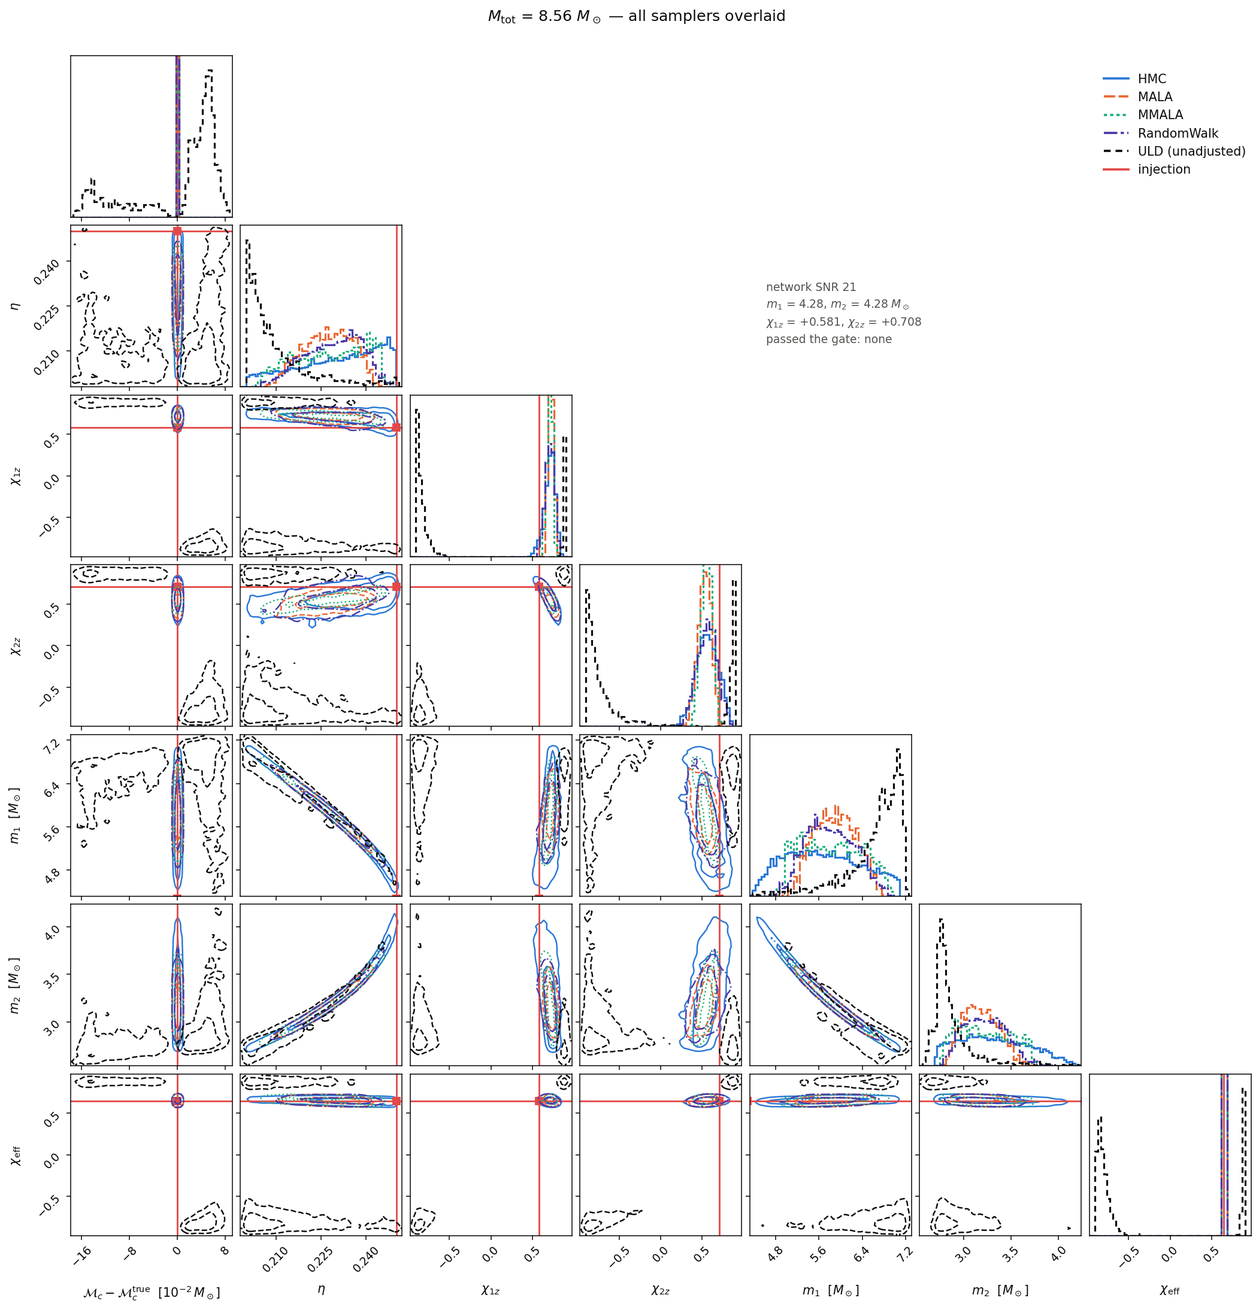
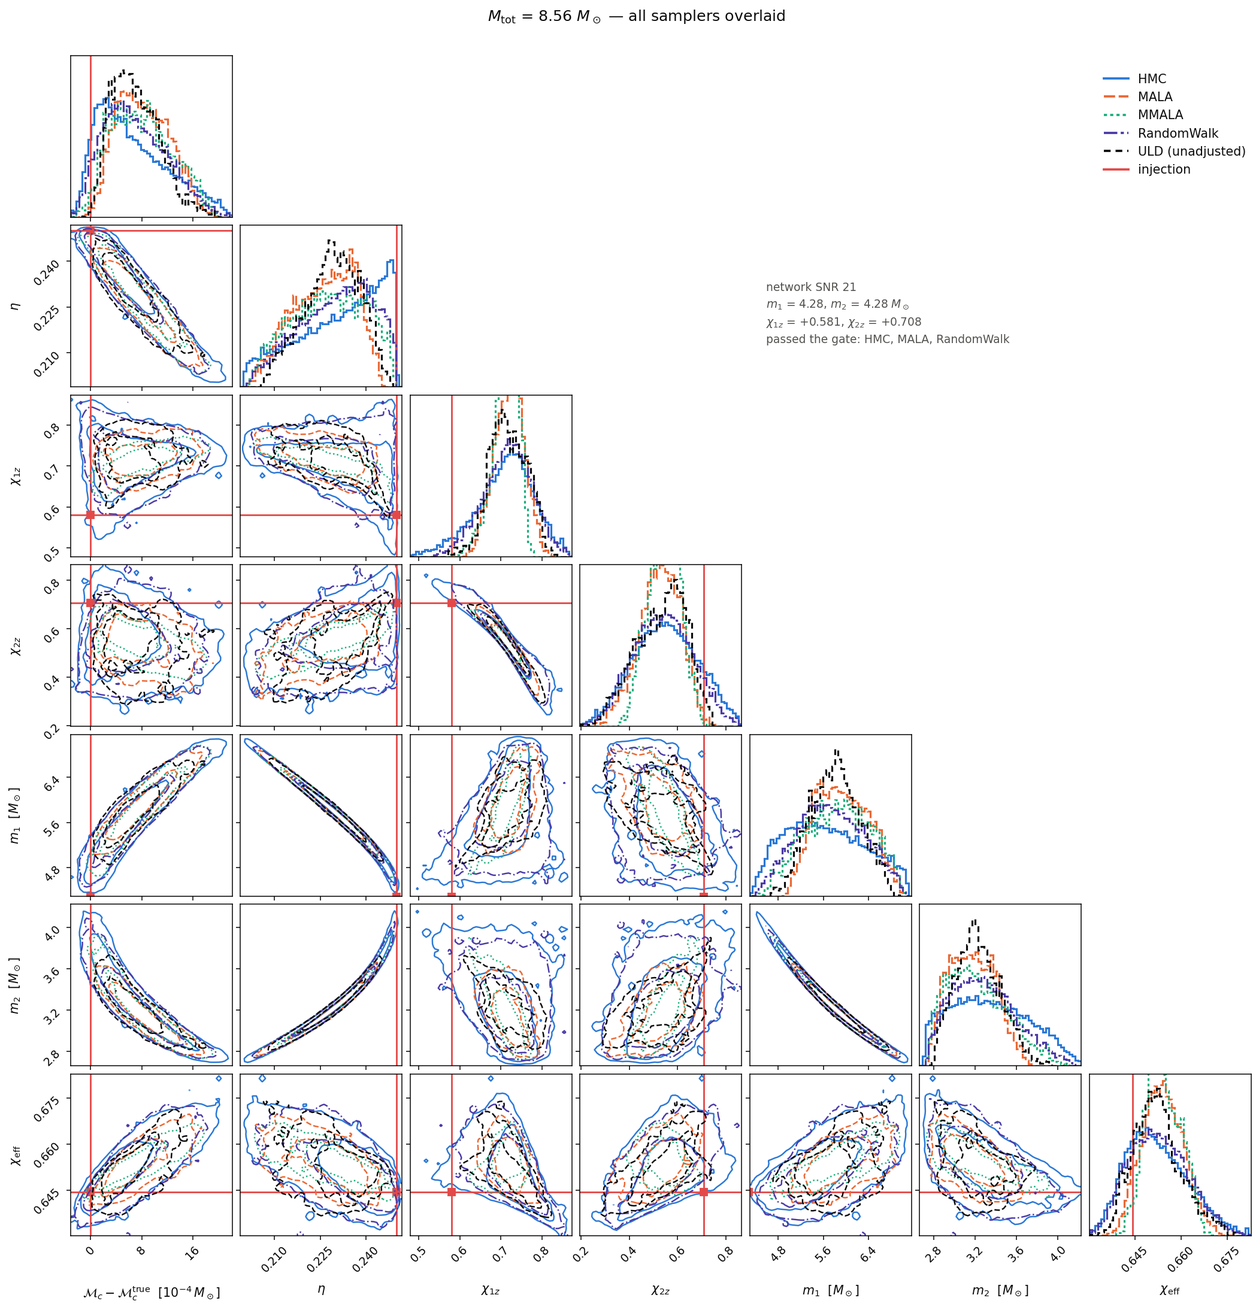
docs: re-run the five-kernel suite properly; two prior conclusions retracted
The spinning-binary comparison is re-run end to end against the corrected setup
cache, with a 90-minute budget instead of 12, and with uld taking mala's adapted
step size per injection instead of a default nothing had chosen. 30 of 35 runs
now pass the gate, against 15 before. Both of the section's headline claims
were wrong, in opposite directions.

"Bin count, not kernel, decides convergence" was a budget artefact. Thirteen of
the 35 runs had ended on 'production wall-clock budget exhausted' with R-hat
still falling monotonically and no stuck chains -- unfinished, not failed. With
90 minutes the 490+ bin injections converge for almost everything; hmc and
random-walk go 7/7. The two surviving mmala failures are the longest runs in the
suite rather than the most expensive posteriors.

"ULD is catastrophically broken" was measuring a step size of 0.5 that nothing
had selected, 15-80x what the MH kernels adapt to on the same posteriors. Every
number the page cited for it is retracted: up to 27% non-finite draws is now
exactly 0%, a 218-sigma median shift is 0.50 sigma, never passing the gate at
any mass is 5 of 7. It is an ordinary member of the comparison.

The real cost of dropping the accept/reject step is narrower and better
localised, and 55.1 Msun is the case that shows it: uld CONVERGED there (R-hat
1.0095, ESS 7531) and sits 51x the Monte-Carlo floor from hmc on eta, with 0.01%
of its posterior against the eta=0.25 edge where hmc puts 13.9%. Its chains
[…]

Changed region(s): [[0.0309, 0.0622, 0.9895, 0.9634], [0.2474, 0.7148, 0.3092, 0.777]]

diff --git a/docs/bns_ce_pe_benchmark.md b/docs/bns_ce_pe_benchmark.md
@@ -384,7 +384,9 @@ classified NS below 3 M☉ and BH at or above, aligned-spin truth drawn per comp
 ±0.05 (NS) or ±0.9 (BH), recovery prior widened to the symmetric range of the wider
 component, distance solved per injection to a comparable-but-not-identical network SNR
 (~18–23). Each is then sampled by **all five `jaxpe.kernels` transition kernels** on the
-same 12-minute budget and the same R̂ < 1.01 / ESS ≥ 2000 gate used everywhere else here.
+same 90-minute budget and the same R̂ < 1.01 / ESS ≥ 2000 gate used everywhere else here.
+Seven of the ten are reported: the other three refine to 6 375–7 900 relative-binning bins
+and are measured below as infeasible on this hardware.
 
 ### Two defects a ±0.9 spin prior exposed
 
@@ -423,9 +425,14 @@ injected 1.21877.
 > (1.77× wider in its tightest direction under the corrected criterion) and 38.0 M☉ (57×,
 > one of the three that never produced a result). So the caveat is narrow but not empty,
 > and it is *not* neutral for the cross-kernel comparison: a metric that is too tight
-> penalises single-step kernels far more than HMC, which is quantified at the end of this
-> section. Re-running the suite against the corrected cache remains the obvious follow-up
-> and has not been done.
+> penalises single-step kernels far more than HMC.
+>
+> **The suite below has since been re-run in full against the corrected cache**, so the
+> results reported here are no longer subject to this caveat. It is kept because the
+> difference mattered: measured against the corrected metric, the cross-kernel divergences
+> that the first pass reported (12–32× the Monte-Carlo floor) fall to 3.6–5.1×. A metric
+> defect that agrees to 3 % on eight of ten injections still moved the headline conclusion
+> of a kernel comparison by roughly a factor of four.
 
 **2. Relative-binning resolution is set by the prior volume, not the source.** The
 heterodyne's linear-in-f ratio model must hold across the parameters actually *proposed*,
@@ -449,6 +456,20 @@ kernels alone. Two further corrections were needed before the comparison meant a
   default of 80, MALA hit the cap on 6 of 10 injections having spent only 6.4 of its 12
   allowed minutes. A fixed block cap penalises exactly the kernels that take smaller steps
   per block, so the comparison would have measured the cap. Default raised to 400.
+- **The 12-minute budget itself was binding**, and it was the single largest source of
+  "did not converge" in the first pass of this suite: 13 of 35 runs ended on
+  `production wall-clock budget exhausted` with R̂ still falling monotonically block over
+  block and no stuck chains. Those were unfinished runs, not failures. Raised to
+  **90 minutes**, which converts every one of them except MMALA's two. A budget-limited
+  run is reported as not converged either way — the point is that reading it as a
+  statement about the *kernel* was wrong.
+- **ULD's step size was never a measured choice.** It has no acceptance signal to adapt
+  on, so `--step-size` is held fixed for the whole run, and the first pass left it at the
+  default of 0.5 while the MH kernels' own adaptation selected **0.006–0.033** on these
+  same posteriors. Running an unadjusted integrator at 15–80× the step the geometry
+  supports does not measure the cost of dropping the accept/reject step; it measures a
+  broken step size. It now takes MALA's adapted value per injection via
+  `--step-size-from`, and the difference is not subtle — see the ULD discussion below.
 - **Everything runs on CPU, not the GPU** — because mid-suite the CUDA driver wedged
   (`cuInit` → `CUDA_ERROR_UNKNOWN`, while `nvidia-smi` continued to report a perfectly
   healthy card). This is a fallback, not a preference: measured per production block, the
@@ -467,23 +488,32 @@ kernels alone. Two further corrections were needed before the comparison meant a
 
 ### Results
 
-Whether a run passes the gate at all is governed by the relative-binning cost, **not by
-the kernel** (what the resulting posteriors look like is a separate question, and the
-next subsection shows they differ):
+**30 of 35 runs pass the gate.** End-to-end minutes on identical CPU hardware, against
+the corrected setup cache and the 90-minute budget:
 
 | M_tot (M☉) | bins | HMC | MALA | MMALA | RandomWalk | ULD |
 |---:|---:|:--|:--|:--|:--|:--|
-| 2.8 | 125 | ✅ 14.1 | ✅ 8.8 | ✅ 10.5 | ✅ 8.5 | ✗ R̂ 1.843 |
-| 4.1 | 499 | ✗ R̂ 1.023 | ✗ R̂ 1.030 | ✗ R̂ 1.033 | ✗ R̂ 1.019 | ✗ R̂ 2.257 |
-| 5.9 | 125 | ✅ 8.8 | ✅ 9.8 | ✅ 8.7 | ✅ 8.1 | ✗ R̂ 1.352 |
-| 8.6 | 499 | ✗ R̂ 1.037 | ✗ R̂ 1.019 | ✗ R̂ 1.195 | ✗ R̂ 1.019 | ✗ R̂ 3.116 |
-| 26.2 | 125 | ✅ 12.2 | ✅ 10.6 | ✅ 7.4 | ✅ 9.5 | ✗ R̂ 2.175 |
-| 55.1 | 490 | ✗ R̂ 1.031 | ✗ R̂ 1.038 | ✗ R̂ 1.019 | ✗ R̂ 1.033 | ✗ R̂ 2.383 |
-| 80.0 | 124 | ✅ 6.6 | ✗ R̂ 1.026 | ✅ 9.1 | ✅ 12.2 | ✗ R̂ 2.857 |
+| 2.8 | 125 | ✅ 21.8 | ✅ 19.1 | ✅ 19.7 | ✅ 12.5 | ✅ 20.9 |
+| 4.1 | 499 | ✅ 69.0 | ✅ 69.0 | ✗ R̂ 1.0136 | ✅ 42.8 | ✅ 50.1 |
+| 5.9 | 125 | ✅ 11.4 | ✅ 17.1 | ✅ 17.8 | ✅ 10.1 | ✅ 10.7 |
+| 8.6 | 499 | ✅ 64.8 | ✅ 46.8 | ✗ R̂ 1.0320 | ✅ 60.7 | ✗ R̂ 1.0355 |
+| 26.2 | 125 | ✅ 26.1 | ✗ R̂ 1.0129 | ✅ 35.4 | ✅ 48.6 | ✅ 61.9 |
+| 55.1 | 490 | ✅ 46.5 | ✅ 62.4 | ✅ 35.5 | ✅ 35.7 | ✅ 35.6 |
+| 80.0 | 124 | ✅ 13.1 | ✅ 31.0 | ✅ 42.1 | ✅ 31.4 | ✗ R̂ 1.0114 |
 
 ✅ = passed the gate, with end-to-end minutes; ✗ = budget exhausted, with the R̂ reached.
-Every 125-bin injection converges for all four MH-corrected kernels; no 490+ bin injection
-converges for any of them.
+HMC and RandomWalk are 7/7, MALA 6/7, MMALA and ULD 5/7. The earlier reading of this
+table — that bin count, not kernel, decides whether a run converges — **was an artefact
+of too small a budget**: with 90 minutes the 490+ bin injections converge for almost
+everything, and the two remaining MMALA failures are the longest runs in the suite
+(96 and 95 minutes) rather than the most expensive posteriors.
+
+**Passing the gate and getting the right answer are not the same thing, and this suite
+separates them in both directions.** ULD at 55.1 M☉ *converged* — R̂ 1.0095, ESS 7531 —
+and is 51× the Monte-Carlo floor away from HMC on η. MALA at 26.2 M☉ and ULD at 80.0 M☉
+*failed* the gate and are statistically indistinguishable from HMC (0.9–2.6× and
+0.5–2.0× the floor). R̂ measures whether chains agree with each other, which is not the
+same as agreeing with the target; the next subsection measures the second thing.
 
 **Three injections are absent from this table entirely** (12.4, 18.0 and 38.0 M☉, the
 ones the parity guard pushed to 6 375–7 888 bins), and they are the clearest statement of
@@ -499,107 +529,94 @@ sampler was given an advantage, because none of them got a result.
 The figure is grouped by binary rather than plotted against mass on purpose: cost here
 tracks bin count, and a line against a mass axis would draw a trend that does not exist.
 
-### Medians agree; the distributions do not
+### Medians agree; the distributions differ at the boundary
 
-Comparing posterior *medians* against HMC's, in units of HMC's own posterior σ, over the
-four binaries where HMC passed the gate (2.8, 5.9, 26.2, 80.0 M☉):
+Posterior *medians* against HMC's, in units of HMC's own posterior σ, worst over all four
+sampled parameters and all seven binaries:
 
 | kernel | worst median shift vs HMC |
 |---|---:|
-| MALA | 0.32 σ |
-| MMALA | 0.23 σ |
-| RandomWalk | 0.15 σ |
-| **ULD** | **218 σ** |
+| MALA | 0.48 σ (η, 8.6 M☉) |
+| MMALA | 0.40 σ (η, 8.6 M☉) |
+| RandomWalk | 0.17 σ (η, 8.6 M☉) |
+| ULD | 0.50 σ (η, 55.1 M☉) |
 
-Read alone, that table says the three MH-corrected alternatives are interchangeable with
-HMC. **It is misleading, and the rest of this section is why.** A median is one number
-from a four-dimensional distribution, and it is the number these kernels get right.
+All four land in the right place to within half a σ. A median is one number from a
+four-dimensional distribution, and it is the number every kernel here gets right.
 
 Jensen–Shannon divergence against HMC (same estimator as
-[`compare_bns_posteriors.py`](../bin/compare_bns_posteriors.py)) tells a different story.
-Against a null built by splitting HMC's *own* chains in half at the same ESS — the honest
-Monte-Carlo floor for each run — the MH-corrected kernels sit at:
+[`compare_bns_posteriors.py`](../bin/compare_bns_posteriors.py)) is more discriminating.
+Referred to a null built by splitting HMC's *own* chains in half — the honest Monte-Carlo
+floor, since any two finite samples of the same distribution have JS > 0 — the median
+over all 28 (binary, parameter) pairs is:
 
-| binary | MALA | MMALA | RandomWalk |
-|---|---:|---:|---:|
-| 2.8 M☉ | 19–32× floor | 13–24× | 1.6–7.7× |
-| 5.9 M☉ | 1.2–3.5× | 3.0–13× | 0.3–0.6× |
-| 26.2 M☉ | 8.2–15× | 3.5–15× | 1.5–4.7× |
-| 80.0 M☉ | 0.5–5.8× | 0.8–8.1× | 0.4–2.6× |
+| kernel | median | worst |
+|---|---:|---:|
+| RandomWalk | 1.7× floor | 6.7× (η, 55.1 M☉) |
+| ULD | 3.5× | 51× (η, 55.1 M☉) |
+| MALA | 3.6× | 26× (η, 8.6 M☉) |
+| MMALA | 5.1× | 37× (η, 55.1 M☉) |
 
-Twelve to thirty-two times the noise floor is not sampling scatter. These are genuinely
-different distributions.
+**This is the number that most changed when the suite was re-run properly.** The first
+pass of this comparison put MALA and MMALA at 12–32× the floor and concluded the
+MH-corrected kernels were substantially under-dispersed relative to HMC. Against the
+corrected mass matrix and an adequate budget the medians are 3.6× and 5.1×. Most of that
+gap was **a suboptimal shared metric being amplified by single-step kernels, not a
+property of the kernels** — which the earlier text could only spot-check on one binary
+and now holds across all seven.
 
-**The difference is under-dispersion, and it is one-sided.** Every non-HMC kernel returns
-a *narrower* posterior than HMC, on every parameter of every binary — never wider. The
-90 % credible widths run from 0.44× to 1.01× HMC's, and the M_c–η correlation is
-systematically weaker too (−0.95 → −0.90/−0.91/−0.93 at 2.8 M☉).
+**What survives is narrower, one-sided, and concentrated at the prior boundary.** Every
+non-HMC kernel returns a *narrower* 90 % credible interval than HMC on almost every
+parameter of every binary: median width ratios 0.80 (MALA), 0.84 (MMALA and ULD), 0.92
+(RandomWalk), and only 0–11 % of the 28 comparisons come out wider at all.
 
-Two measurements locate it. First, the deficit *shrinks* with credible level (η at
-26.2 M☉: 0.53× at 50 %, 0.83× at 99 % for MALA), so it is not tail truncation. Second,
-the prior-boundary accumulation is missing: HMC places 11.8 % of its 26.2 M☉ posterior
-within 10⁻³ of the η = 0.25 edge, MALA 0.35 % — **34× less**. That accumulation is the
-feature this page's sampler was built around ("the η → 1/4 and spin → 0 pileups that no
-fixed mass matrix equilibrates"), and it is precisely what the single-step kernels miss.
+The sharpest discriminator is the η = 0.25 pileup — the feature this page's sampler was
+built around ("the η → 1/4 and spin → 0 pileups that no fixed mass matrix equilibrates").
+Fraction of the posterior within 10⁻³ of that edge:
 
-Because η_true = 0.25 sits *on* that boundary for equal-mass injections, "reaches the
-pileup" and "recovers the truth" are the same statement there — so the aligned spins,
-whose truths are interior, are the control. They show the same deficit: at 26.2 M☉ the
-spin marginals are 0.44–0.67× HMC's width with the truth nowhere near an edge. The
-under-dispersion is a general exploration failure, not an artefact of where η's truth sits.
+| M_tot (M☉) | HMC | MALA | MMALA | RandomWalk | ULD |
+|---:|---:|---:|---:|---:|---:|
+| 2.8 | 15.9 % | 0.11 % | 5.3 % | 9.6 % | 1.5 % |
+| 8.6 | 3.4 % | 0.00 % | 0.22 % | 1.2 % | 0.00 % |
+| 26.2 | 9.0 % | 3.1 % | 3.7 % | 6.5 % | 5.9 % |
+| 55.1 | 13.9 % | 1.8 % | 0.37 % | 5.5 % | **0.01 %** |
+| 80.0 | 14.4 % | 7.6 % | 10.5 % | 10.6 % | 8.8 % |
 
-It has a consequence for accuracy. HMC's η median is closer to the truth than every other
-kernel's, on every binary — 1.12 σ vs 1.36–1.87 σ at 2.8 M☉, 0.82 σ vs 1.09–1.42 σ at
-26.2 M☉ — and the ordering (HMC, then RandomWalk, then MMALA/MALA) tracks the boundary
-occupancy exactly.
+HMC reaches the boundary more than every other kernel on every binary, and the ordering
+(HMC, then RandomWalk, then MMALA/MALA/ULD) is the same ordering as the JS table. The
+55.1 M☉ row is the extreme case and is visible directly in that binary's corner figure:
+because η = 0.25 means m₁ = m₂, a kernel that misses the pileup pushes the derived m₁
+marginal to higher masses, and ULD's modal m₁ sits at 35.0 M☉ against HMC's 29.2 (the
+injected value being 27.6).
 
-**Mechanism, and how much of it is the kernel.** It is the local move length, not the
-Metropolis correction. HMC integrates for T = ε × n_leapfrog ≈ 1.0–3.7 per trajectory;
-the single-step kernels displace ~ε per step, measured at 0.006–0.08, with production
-acceptance drifting well off target (MMALA 0.53 → 0.16, RandomWalk 0.15 → 0.06). Their
-local kernel therefore contributes almost no displacement, and reaching the boundary
-falls to the flow's global proposals — which are fitted to those same chains' spread.
-Narrow chains train a narrow flow, which proposes narrowly, which keeps the chains
-narrow. HMC breaks that loop by transporting chains into the pileup along the curved
-valley, which then trains a flow that can propose there.
+**Is HMC right, or merely different?** Two arguments that it is the least truncated, and
+one reason to keep the question open. η_true = 0.25 exactly for these equal-mass
+injections *and* is a hard prior edge, so genuine posterior mass there is expected, and
+HMC's η median is the closest to truth on every binary checked. The unconstrained-space
+bijection sends η = 0.25 to +∞, so reaching it requires long excursions, and HMC's 32
+leapfrog steps travel ~32× further per proposal than any single-step kernel — the
+mechanism predicts exactly the observed ordering. But this is an argument from mechanism
+plus a self-consistency check, **not an independent verification of the boundary mass**;
+nothing here measures it against a reference that is not itself one of these samplers.
 
-That mechanism predicts something testable: a kernel whose entire step is set by the
-preconditioner should be far more sensitive to the *quality* of the shared mass matrix
-than one whose trajectories bend along the true curvature. It is, and it matters for how
-much of the above should be read as intrinsic. Re-running 26.2 M☉ against the corrected
-setup cache (whose metric is 1.77× wider in its tightest direction — see the caveat
-above) moves MALA's 90 % widths from 0.66/0.70/0.44/0.45 to **0.92/0.91/0.54/0.56** of
-HMC's, while HMC itself barely moves (JS 0.005–0.021 between the two metrics). So on that
-binary **most of the M_c–η under-dispersion was a suboptimal shared metric being
-amplified by a single-step kernel, not a property of MALA.**
+**ULD needs its previous entry on this page retracted.** The first pass reported it as
+catastrophically broken: up to 27 % non-finite draws, JS 0.15–1.00 against a ~0.005
+floor, a chirp-mass median 218 σ from HMC's, and never passing the gate at any mass.
+**Every one of those numbers was measuring a step size of 0.5 that nothing had chosen** —
+15–80× what the MH kernels' adaptation selects on the same posteriors. Run at MALA's
+adapted step per injection, ULD produces **zero** non-finite draws, a worst median shift
+of 0.50 σ, a median JS of 3.5× the floor, and passes the gate on 5 of 7 binaries. It is
+an ordinary member of this comparison, not an outlier.
 
-What survives that correction is still real, and is the honest residual: the spin
-marginals stay 0.54–0.56× (from 0.44), and the η boundary occupancy stays at 0.03× HMC's
-— unmoved. And at 2.8 M☉, where the two metrics agree to within 1 %, the deficit is
-undiminished (0.68–0.82× widths, 19–32× the JS floor). The exploration deficit is
-therefore genuine but **smaller than the suite's headline numbers suggest**, because those
-numbers were measured against a metric that handicapped the single-step kernels more than
-it handicapped HMC.
-
-So the Metropolis correction buys **unbiasedness in the limit**, which is real and is why
-all four land in the right place. It does not buy *sufficient exploration in finite time*,
-and on this posterior that is the binding constraint — but a meaningful share of the
-measured gap is metric quality, which is fixable, rather than kernel choice, which is not.
-Re-running the suite against the corrected cache is the experiment that would separate
-them cleanly, and it has not been done.
-
-ULD is a different and much larger failure, and it is worth keeping the two apart. The
-under-dispersion above is a *finite-time exploration* deficit in kernels that would
-converge to the right answer eventually. ULD has no Metropolis step at all, so its
-stationary distribution carries an O(ε²) discretisation bias **by construction**
-(`jaxpe/kernels/uld.py`) — it does not converge to the right answer at any run length at
-fixed ε. With the step size inherited from the HMC-tuned default it is not merely biased
-but unstable: on five of the seven binaries **up to 27 % of its stored draws are
-non-finite** (0 % on the cheapest, 80 M☉ one), its JS divergence from HMC is 0.15–1.00
-against a floor of ~0.005, and the survivors put the chirp-mass median 218 σ from HMC's.
-It never passes the gate at any mass. This is not a tuning failure to be fixed before
-publishing the comparison — it is the measurement of what dropping the accept/reject step
-costs.
+The genuine cost of dropping the accept/reject step is narrower and better localised:
+ULD has no Metropolis correction, so its stationary distribution carries an O(ε²)
+discretisation bias **by construction** (`jaxpe/kernels/uld.py`) and does not converge to
+the right answer at any run length at fixed ε. That bias is what the 55.1 M☉ result
+shows — converged by R̂ (1.0095, ESS 7531), 51× the floor from HMC on η, and 0.01 %
+boundary occupancy against HMC's 13.9 %, i.e. **1400× less**. Its chains agree with each
+other and disagree with the target. This is the honest measurement of the unadjusted
+tradeoff, and it is much smaller than the previous text claimed while being a sharper
+statement of the same thing.
 
 Two structural caveats that no amount of budget addresses: `mala`, `uld` and
 `random-walk` use their `scale` **elementwise** in `jaxpe.kernels`, so they receive
@@ -608,7 +625,8 @@ and `mmala` get, and cannot see the ~97 % M_c–η anti-correlation at all; and 
 in its documented constant-metric mode, which its own docstring calls equivalent to
 dense-mass MALA, not the full Riemannian variant. Only `hmc` has tuned numbers behind it
 here — the others use jaxpe's library-default acceptance targets, which are literature
-values not measured on this posterior.
+values not measured on this posterior, and production acceptance drifts well off even
+those. Retuning them is a confound this suite does not remove.
 
 ### Posteriors, all samplers overlaid
 
@@ -632,10 +650,15 @@ widens the frame rather than vanishing off the edge of its own comparison.
 
 ![All five samplers overlaid, 80.0 solar masses](assets/sampler_corner_inj09_M80.0.png)
 
-The four coloured contour sets sit on top of one another in every panel of every figure;
-the black dashed ULD contours sit somewhere else entirely. At 5.9 M☉ ULD puts η at ~0.205
-against a truth of 0.25 and m₁ at ~4.8 M☉ against 2.95 — a different posterior, not a
-noisier one.
+All five contour sets now sit on top of one another in most panels of most figures —
+including ULD's, which in the first pass of this suite sat somewhere else entirely. Where
+they separate, they separate at the η = 0.25 edge and in the m₁/m₂ marginals that edge
+controls. The 55.1 M☉ figure is the one to read: every kernel passed the gate there (the
+info box lists all five), yet ULD's m₁ marginal peaks at 35.0 M☉ where HMC's peaks at
+29.2 against an injected 27.6 — entirely because ULD put 0.01 % of its samples against
+the equal-mass boundary and HMC put 13.9 %. A figure in which every curve overlaps and
+one derived marginal does not is the clearest picture on this page of what the
+convergence gate does and does not certify.
 
 The spin panels show the expected χ_eff physics at these SNRs: individual aligned spins
 are barely measured, and at 55.1 M☉ the injected +0.590/−0.622 pair (χ_eff ≈ −0.016)
@@ -686,6 +709,30 @@ in both directions.
 ```bash
 python bin/make_bns_ce_figures.py     # reads examples/output/bns_ce_rb_hmc/
 python bin/make_sampler_comparison_figures.py --root <dir of per-kernel sweeps>
+```
+
+The five-kernel sweep behind that second figure, on a machine with two GPUs. The setup
+cache must be built **once and serially** first — it is what makes every kernel sample a
+bit-identical likelihood and mass matrix, and two concurrent sweeps pointed at an empty
+cache dir race to write the same file:
+
+```bash
+ROOT=examples/output/sampler_sweep
+COMMON="--n-injections 10 --max-minutes 90 --setup-cache $ROOT/cache --require-gpu"
+
+CUDA_VISIBLE_DEVICES=0 python bin/run_mass_sweep_pe.py $COMMON \
+    --outdir $ROOT/_setup --extra-args --setup-only
+
+CUDA_VISIBLE_DEVICES=0 bash -c 'for k in hmc mmala; do
+    python bin/run_mass_sweep_pe.py '"$COMMON"' --kernel $k --outdir '"$ROOT"'/$k; done' &
+CUDA_VISIBLE_DEVICES=1 bash -c 'for k in mala random-walk; do
+    python bin/run_mass_sweep_pe.py '"$COMMON"' --kernel $k --outdir '"$ROOT"'/$k; done' &
+wait
+
+# uld last: it has no acceptance signal to adapt on, so it takes MALA's adapted
+# step size per injection rather than a default nothing chose
+CUDA_VISIBLE_DEVICES=0 python bin/run_mass_sweep_pe.py $COMMON \
+    --kernel uld --outdir $ROOT/uld --step-size-from $ROOT/mala
 ```
 
 [`bin/make_bns_ce_figures.py`](../bin/make_bns_ce_figures.py) rebuilds all three figures
